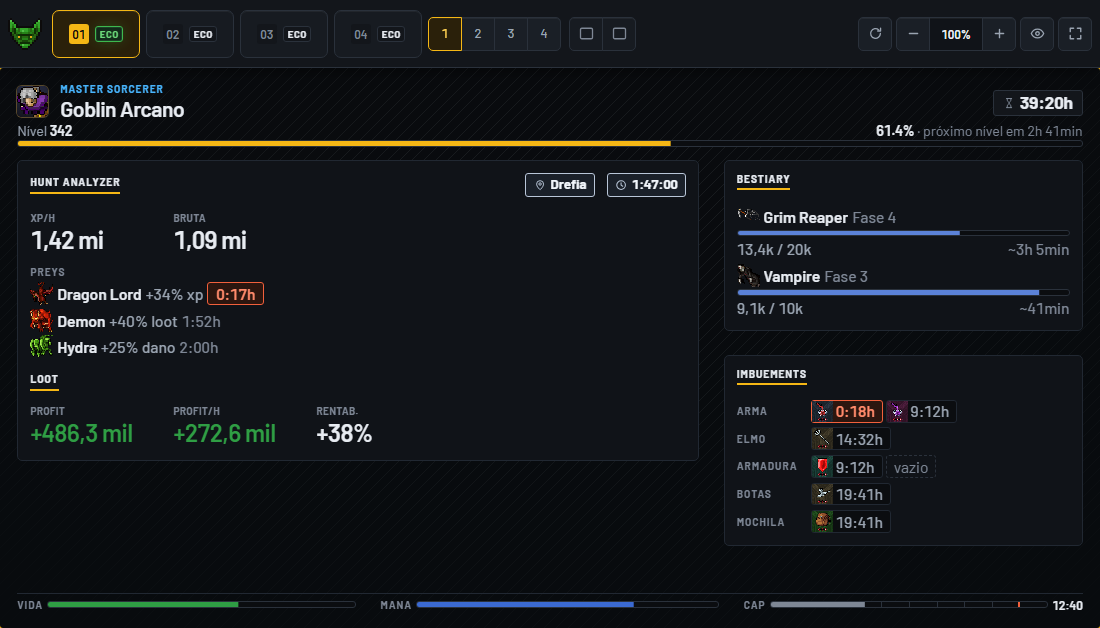
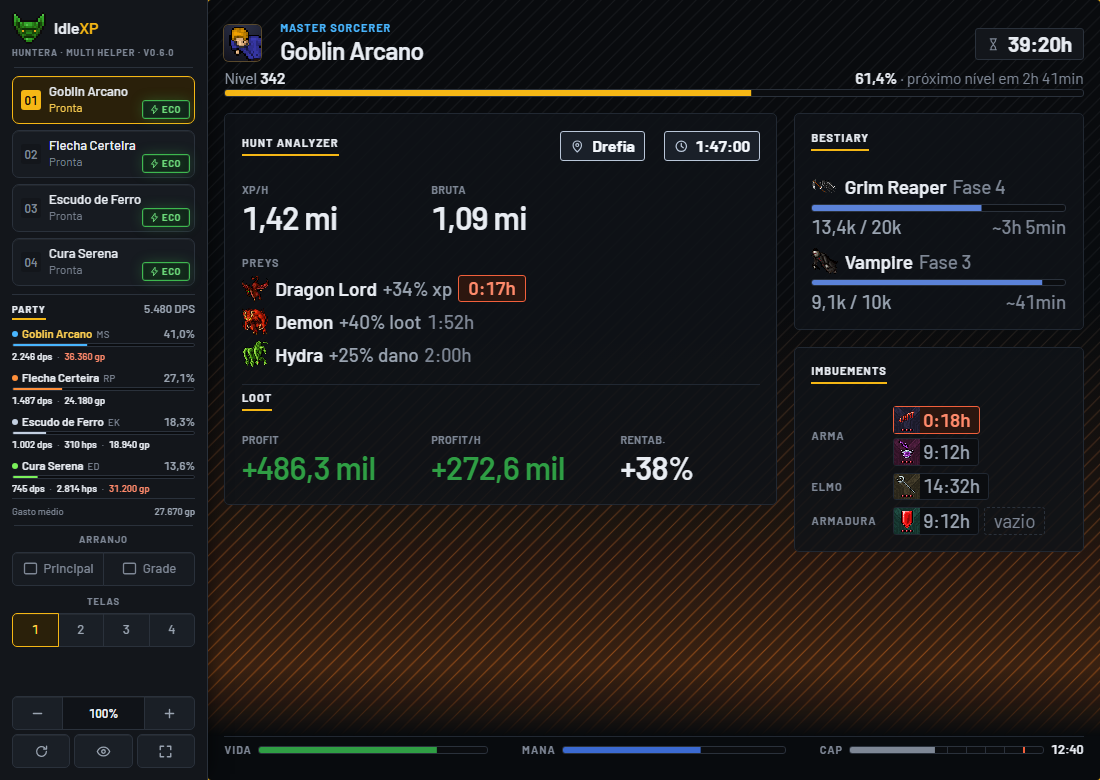
Atualiza a pagina do IdleXP (README.en.md, README.md, SECURITY.en.md, SECURITY.md, imagens/painel-economia.png, PRIVACIDADE.md, PRIVACY.md)

diff --git a/README.md b/README.md
@@ -32,7 +32,7 @@
 ---
 
 <p align="center">
-  <img src="imagens/painel-economia.png" alt="O painel do modo economia: XP por hora, profit, preys, bestiário da caçada e os imbuements do equipamento">
+  <img src="imagens/painel-economia.png" alt="O painel do modo economia: XP por hora, profit, preys, bestiário da caçada e os imbuements do equipamento, com a party na barra lateral">
   <br>
   <sub>O painel do modo economia. Imagem ilustrativa, com dados de exemplo.</sub>
 </p>
@@ -71,6 +71,8 @@ do seu PC vão ser outros; a proporção é o que conta.</sub>
   painel com o que importa: vida, mana, stamina, nível, **XP/h**, **Profit/h**, as **preys** ativas,
   o **bestiário** da caçada, com quanto falta para cada fase, e os **imbuements** do equipamento,
   com o tempo que resta em cada um e um aviso quando falta 20 minutos ou menos.
+- **A party na barra lateral.** Com pelo menos uma conta em modo economia, a barra mostra a party
+  ordenada do maior dano para o menor, com **DPS**, cura e gasto de cada membro.
 - **Economia automática.** Nos layouts de 1 a 3 telas, as contas que ficam fora da tela entram em
   economia sozinhas depois de 2 minutos.
 - **Avisa quando algo dá errado.** Se o personagem morrer ou a stamina acabar, o cartão da conta
@@ -144,8 +146,11 @@ O IdleXP ainda não tem **assinatura digital paga**, e cada sistema reage a isso
   na página da versão, e o GitHub assina um atestado que qualquer pessoa confere com o
   [GitHub CLI](https://cli.github.com/):
   ```
+  gh release download -p IdleXP-Setup.exe -R idlexp-app/idlexp-releases
   gh release verify-asset IdleXP-Setup.exe -R idlexp-app/idlexp-releases
   ```
+  O comando confere o arquivo que está na pasta onde ele roda. Se já baixou pelo navegador, pule
+  a primeira linha e rode a segunda na pasta do download.
 - **Código de conferência (SHA-256).** As notas de cada versão trazem o código dos três arquivos,
   com o comando de cada sistema ao lado. O resultado tem que ser igual ao das notas. Se for
   diferente, não instale.

diff --git a/README.en.md b/README.en.md
@@ -32,7 +32,7 @@
 ---
 
 <p align="center">
-  <img src="imagens/painel-economia.png" alt="The economy mode panel: XP per hour, profit, preys, the hunt's bestiary and your gear's imbuements">
+  <img src="imagens/painel-economia.png" alt="The economy mode panel: XP per hour, profit, preys, the hunt's bestiary and your gear's imbuements, with the party in the sidebar">
   <br>
   <sub>The economy mode panel. Illustrative image, with sample data.</sub>
 </p>
@@ -71,6 +71,8 @@ numbers on your PC will be different; the ratio is what counts.</sub>
   is a panel with what matters: health, mana, stamina, level, **XP/h**, **Profit/h**, the active
   **preys**, the hunt's **bestiary**, with how much is left for each stage, and your gear's
   **imbuements**, with the time left on each one and a warning at 20 minutes or less.
+- **Your party in the sidebar.** With at least one account in economy mode, the sidebar shows the
+  party ordered from highest damage to lowest, with each member's **DPS**, healing and spend.
 - **Automatic economy.** In the 1-to-3-screen layouts, accounts that stay off screen enter economy
   mode on their own after 2 minutes.
 - **Tells you when something goes wrong.** If the character dies or stamina runs out, the account
@@ -145,8 +147,11 @@ IdleXP does not yet have a **paid digital signature**, and each system reacts to
   and GitHub signs an attestation that anyone can check with the
   [GitHub CLI](https://cli.github.com/):
   ```
+  gh release download -p IdleXP-Setup.exe -R idlexp-app/idlexp-releases
   gh release verify-asset IdleXP-Setup.exe -R idlexp-app/idlexp-releases
   ```
+  The command checks the file in the folder where it runs. If you already downloaded it with your
+  browser, skip the first line and run the second in the download folder.
 - **Checksum (SHA-256).** Each release's notes carry the checksum of all three files, with the
   command for each system beside it. The result has to match the notes. If it differs, do not
   install.

diff --git a/PRIVACIDADE.md b/PRIVACIDADE.md
@@ -33,6 +33,14 @@ Dentro dela:
 | `diagnostico.log` | Registro técnico do que o app fez, para investigar um problema. Veja a seção abaixo |
 | `Cache`, `GPUCache`, `Local Storage` e as outras pastas soltas | O que o navegador embutido grava por conta própria para a janela do app: cache de arquivos baixados e de desenho, e as preferências dele. Os logins do jogo não ficam nelas — ficam em `Partitions` |
 
+**Como os logins ficam guardados.** Os cookies em `Partitions` ficam gravados no disco **sem
+cifragem**, nos três sistemas. O navegador Chrome cifra os seus com a proteção do sistema; o
+navegador embutido no IdleXP vem com essa cifragem desligada, e ela continua desligada de
+propósito: ligá-la mudaria o jeito como os quatro logins já salvos estão guardados, e eles não
+podem ser mexidos. O que protege a pasta é a sua conta no computador — outra conta sem direito
+de administrador não consegue abri-la. Quem usa a sua conta, um administrador, ou um programa
+rodando como você consegue. Se o computador é dividido, cada pessoa deve ter a própria conta.
+
 O IdleXP ocupa mais espaço fora dessa pasta, e nada disso guarda nada seu: o
 próprio programa, e o lugar onde a atualização deixa o que já baixou.
 

diff --git a/PRIVACY.md b/PRIVACY.md
@@ -33,6 +33,14 @@ Inside it:
 | `diagnostico.log` | A technical log of what the app did, for investigating a problem. See the section below |
 | `Cache`, `GPUCache`, `Local Storage` and the other loose folders | What the embedded browser writes on its own for the app window: cached downloads and drawing, and its own preferences. The game logins are not in these — they are in `Partitions` |
 
+**How the logins are stored.** The cookies in `Partitions` are written to disk **unencrypted**,
+on all three systems. The Chrome browser encrypts its own with the system's protection; the
+browser embedded in IdleXP ships with that encryption off, and it stays off on purpose: turning
+it on would change how the four logins already saved are stored, and those must not be touched.
+What protects the folder is your account on the computer — another account without
+administrator rights cannot open it. Anyone using your account, an administrator, or a program
+running as you can. If the computer is shared, each person should have their own account.
+
 IdleXP takes up more space outside that folder, and none of it holds anything of
 yours: the program itself, and wherever the update leaves what it already
 downloaded.

diff --git a/SECURITY.md b/SECURITY.md
@@ -20,10 +20,17 @@ Intel e Apple Silicon no mesmo arquivo) e `IdleXP.AppImage` (Linux 64 bits).
    conferir o atestado assinado pelo GitHub, com o [GitHub CLI](https://cli.github.com/):
 
    ```
+   gh release download v1.2.3 -p IdleXP-Setup.exe -R idlexp-app/idlexp-releases
    gh release verify-asset v1.2.3 IdleXP-Setup.exe -R idlexp-app/idlexp-releases
    ```
 
-   Troque `v1.2.3` pela versão que você baixou, e o nome do arquivo pelo do seu sistema.
+   Troque `v1.2.3` pela versão que você baixou, e o nome do arquivo pelo do seu sistema. O
+   `verify-asset` confere o arquivo que está na pasta onde o comando roda: se você já baixou pelo
+   navegador, pule a primeira linha e rode a segunda na pasta do download.
+
+   Essa conferência garante que o arquivo é exatamente o que foi publicado aqui e que ninguém o
+   trocou depois. Ela não descreve como o arquivo foi compilado — o código do IdleXP não é
+   publicado.
 
 2. **Código de conferência (SHA-256).** As notas de cada versão trazem o código dos três arquivos.
    O comando muda com o sistema:

diff --git a/SECURITY.en.md b/SECURITY.en.md
@@ -20,10 +20,17 @@ Every release carries three files, one per system: `IdleXP-Setup.exe` (Windows),
    signed by GitHub, with the [GitHub CLI](https://cli.github.com/):
 
    ```
+   gh release download v1.2.3 -p IdleXP-Setup.exe -R idlexp-app/idlexp-releases
    gh release verify-asset v1.2.3 IdleXP-Setup.exe -R idlexp-app/idlexp-releases
    ```
 
    Replace `v1.2.3` with the version you downloaded, and the file name with the one for your system.
+   `verify-asset` checks the file in the folder where the command runs: if you already downloaded
+   it with your browser, skip the first line and run the second in the download folder.
+
+   That check guarantees the file is exactly what was published here and that no one swapped it
+   afterwards. It does not describe how the file was built — IdleXP's source code is not
+   published.
 
 2. **Checksum (SHA-256).** Each release's notes carry the checksum of all three files. The command
    differs per system:
